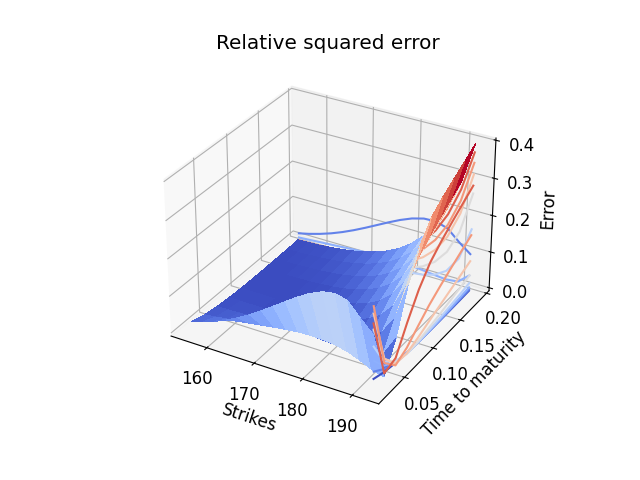
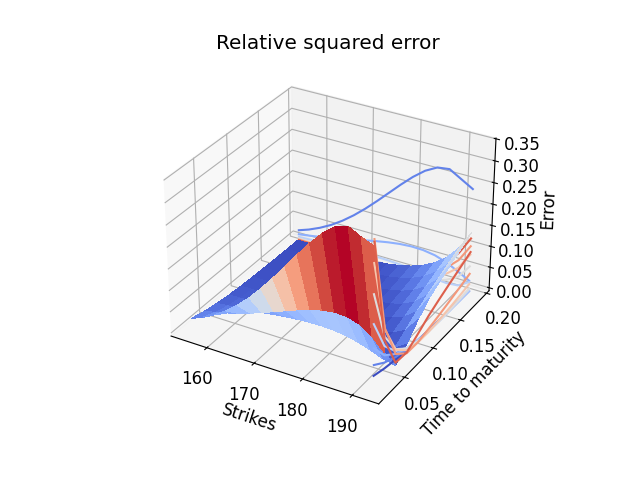
pso working for bsm, not yet for heston

diff --git a/calibrate.cpp b/calibrate.cpp
@@ -214,6 +214,53 @@ namespace Calibrate
 		return finalParams;
 	}
 
+
+	auto hestonCallPSO(const LabeledTable& priceSurface, double riskFreeReturn, double spot, double dividendYield) -> HestonParams
+	{
+		// Since we need to populate the surface of model generated prices anyway to compute the model error,
+		// we store this surface (initialized as a copy of the true surface) 
+		// to be able to plot it later (and compare it to the true surface)
+		LabeledTable modelPriceSurface{ priceSurface };
+		modelPriceSurface.m_tableName = "Heston price surface";
+		LabeledTable errorSurface{ priceSurface };
+		errorSurface.m_tableName = "Relative squared error";
+		errorSurface.m_tableLabel = "Error";
+
+		HestonParams finalParams{ };
+
+		// define params of FFT pricing method
+		FFT::FFTParams params{};
+
+		// the maturity of the market variable will change later, the other values are fixed
+		MarketParams marketParams{ 1.0,spot,riskFreeReturn,dividendYield };
+
+		// define pso  
+		PSO pso{ 100,5 };
+		pso.set_uniformRandomPositions({ 0.01,0.1,0.1,-0.9,0.1 }, { 2.0,2.0,2.0,0.9,2.0 });
+		pso.set_uniformRandomVelocities({ 0.01,0.1,0.1,-0.9,0.1 }, { 2.0,2.0,2.0,0.9,2.0 });
+
+		// define objective function
+		auto func
+		{
+			[&](std::vector<double> paremeters) 
+			{
+				HestonParams hparams{ paremeters[0], paremeters[1], paremeters[2], paremeters[3], paremeters[4]};
+				return computeFFTModelMRSE(priceSurface, marketParams, hparams, params, modelPriceSurface, errorSurface); 
+			}
+		};
+
+		std::vector<double> optParams{ pso.optimize(func,true) };
+		finalParams = { optParams[0], optParams[1], optParams[2], optParams[3], optParams[4] };
+
+		// save the model price table to file
+		Saving::write_labeledTable_to_csv("Data/BSMModelPriceSurface.csv", modelPriceSurface);
+		Saving::write_labeledTable_to_csv("Data/BSMModelErrorSurface.csv", errorSurface);
+
+		return finalParams;
+	}
+
+
+
 	// NOTE: we use FFT but we could replace it with the explicit pricing formula
 	auto bsmCall(const LabeledTable& priceSurface, double riskFreeReturn, double spot, double dividendYield, std::string_view pricing) -> BSMParams
 	{
@@ -283,14 +330,7 @@ namespace Calibrate
 		errorSurface.m_tableName = "Relative squared error";
 		errorSurface.m_tableLabel = "Error";
 
-		std::vector<double> vols{ np::linspace<double>(0.5,.7,100) };
-
-		BSMParams finalParams{
-			vols[static_cast<std::size_t>(0)]
-		};
-
-		// define params of FFT pricing method
-		FFT::FFTParams params{};
+		BSMParams finalParams{ };
 
 		// the maturity of the market variable will change later, the other values are fixed
 		MarketParams marketParams{ 1.0,spot,riskFreeReturn,dividendYield };
@@ -415,7 +455,7 @@ namespace Calibrate
 		const double spot{ 175.0 };
 		const double riskFreeReturn{ 0.045 };
 
-		HestonParams fitParams{ hestonCall(priceSurface,riskFreeReturn,spot,dividendYield) };
+		HestonParams fitParams{ hestonCallPSO(priceSurface,riskFreeReturn,spot,dividendYield) };
 
 		std::cout << "The optimal params found are: \n";
 		std::cout << "reversionRate: " << fitParams.reversionRate << "\n";

diff --git a/calibrate.h b/calibrate.h
@@ -11,6 +11,7 @@ namespace Calibrate
 	auto computeFFTModelMRSE(const LabeledTable& priceSurface, MarketParams& marketParams, const auto& modelParams, const FFT::FFTParams& params, LabeledTable& modelPriceSurface, LabeledTable& errorSurface) -> double;
 	auto computeBSM_MRSE(const LabeledTable& priceSurface, MarketParams& marketParams, const BSMParams& modelParams, LabeledTable& modelPriceSurface, LabeledTable& errorSurface) -> double;
 	auto hestonCall(const LabeledTable& priceSurface, double riskFreeReturn, double spot, double dividendYield) -> HestonParams;
+	auto hestonCallPSO(const LabeledTable& priceSurface, double riskFreeReturn, double spot, double dividendYield) -> HestonParams;
 	auto bsmCall(const LabeledTable& priceSurface, double riskFreeReturn, double spot, double dividendYield, std::string_view pricing = "analytic") -> BSMParams;
 	auto bsmCallPSO(const LabeledTable& priceSurface, double riskFreeReturn, double spot, double dividendYield) -> BSMParams;
 	auto varianceGammaCall(const LabeledTable& priceSurface, double riskFreeReturn, double spot, double dividendYield) -> VarianceGammaParams;

diff --git a/plotting.py b/plotting.py
@@ -100,11 +100,11 @@ def plotOptionCSV(filenames):
     ani.save('plots/optionPrice.gif', writer=writer)
 
 if __name__ == "__main__":
-    plotStockCSV(["Data/stockPath1.csv","Data/stockPath2.csv","Data/stockPath3.csv"])
+    # plotStockCSV(["Data/stockPath1.csv","Data/stockPath2.csv","Data/stockPath3.csv"])
     # plotOptionCSV(["Data/callPrices.csv","Data/callDeltas.csv","Data/callGammas.csv"])
     # plotSurface("Data/ArtificialPriceSurface.csv","priceSurfacePlot")
     # plotSurface("Data/ArtificalVolSurface.csv","volSurfacePlot")
     # plotSurface("Data/HestonModelPriceSurface.csv","hestonModelPriceSurfacePlot")
     # plotSurface("Data/HestonModelErrorSurface.csv","hestonModelErrorSurfacePlot")
-    # plotSurface("Data/BSMModelPriceSurface.csv","bsmModelPriceSurfacePlot")
-    # plotSurface("Data/BSMModelErrorSurface.csv","bsmModelErrorSurfacePlot")
+    plotSurface("Data/BSMModelPriceSurface.csv","bsmModelPriceSurfacePlot")
+    plotSurface("Data/BSMModelErrorSurface.csv","bsmModelErrorSurfacePlot")
